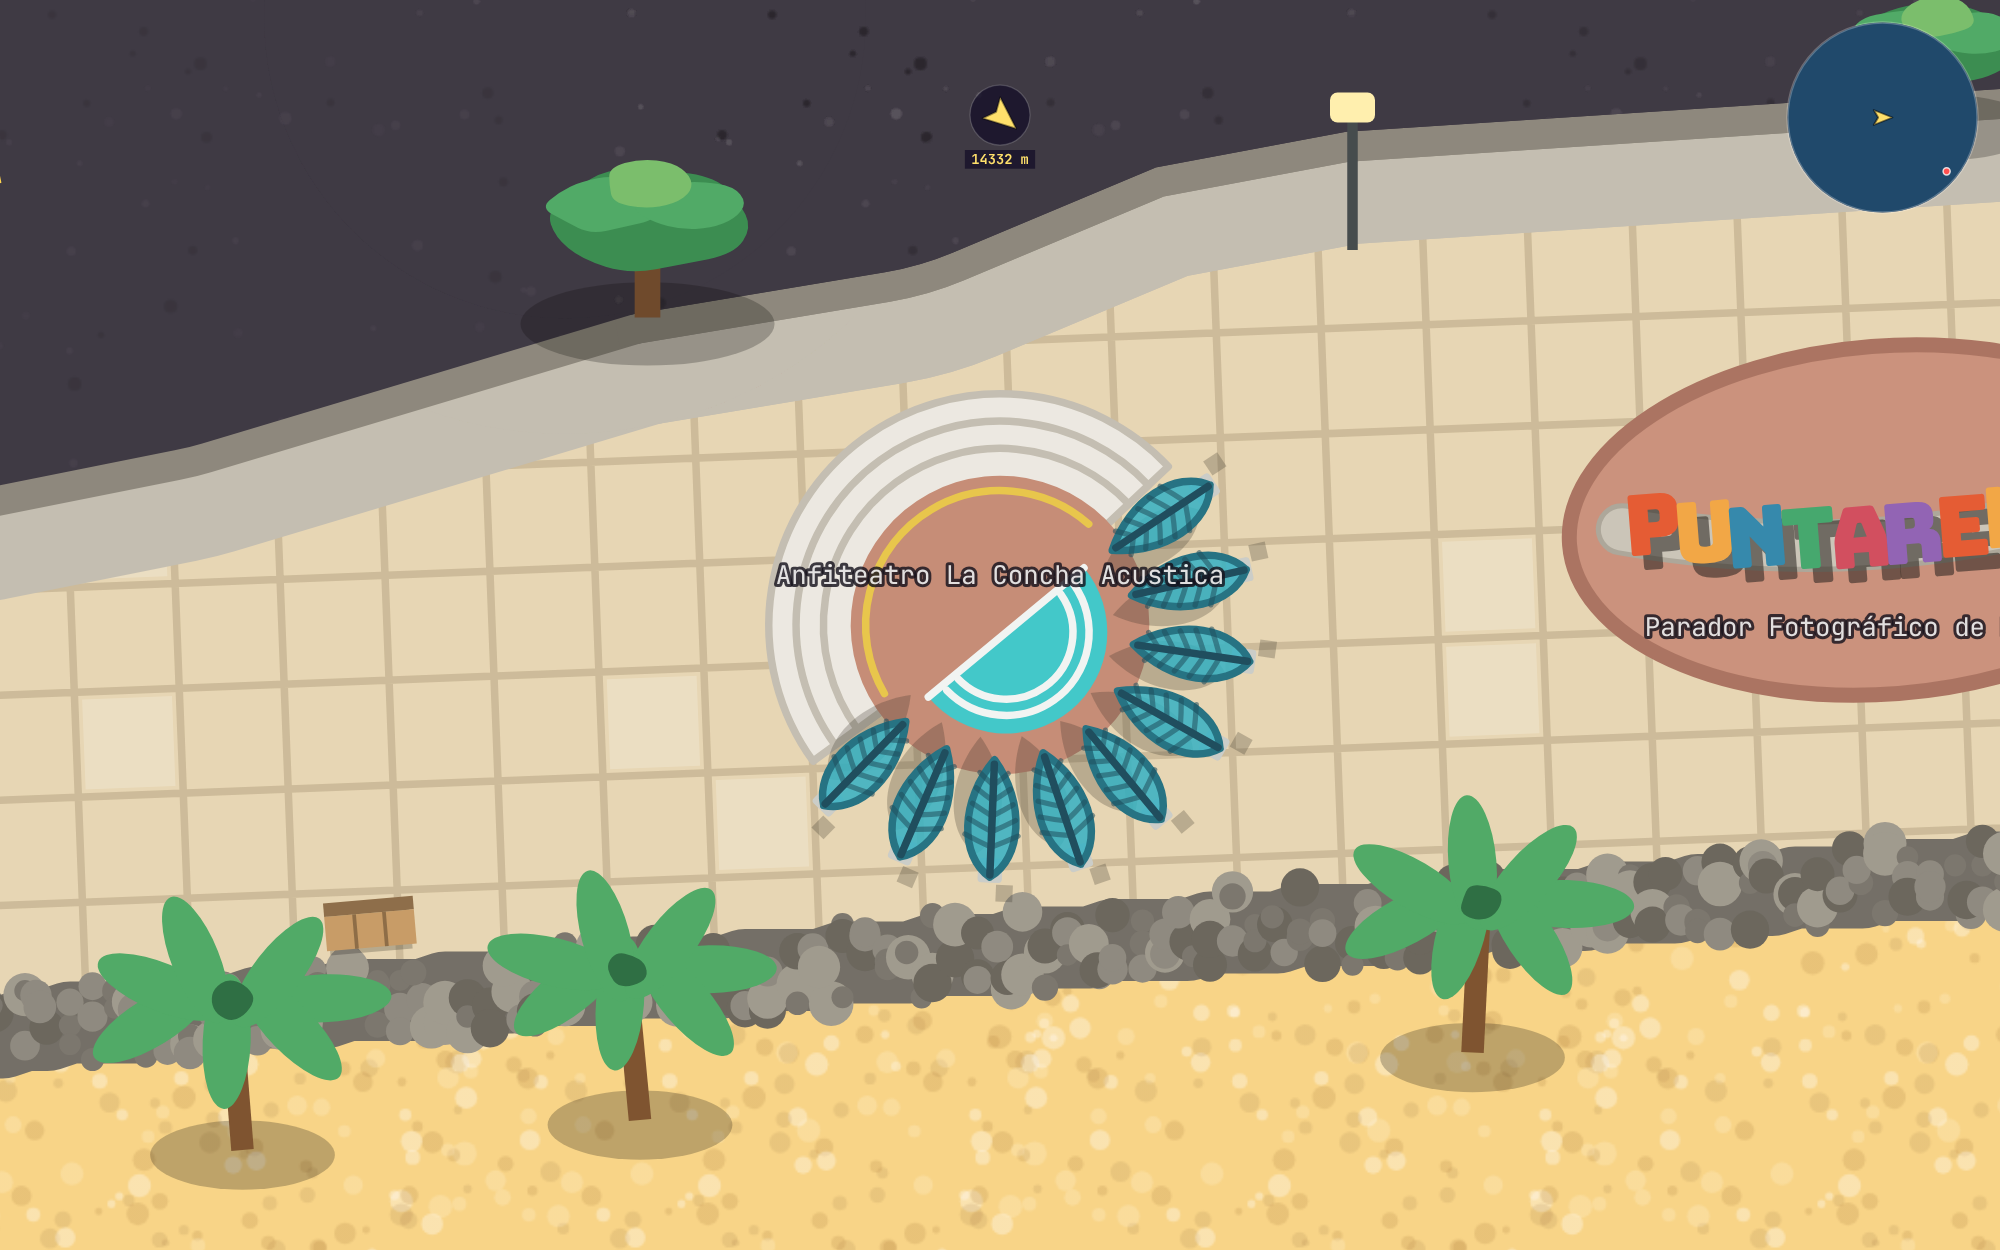
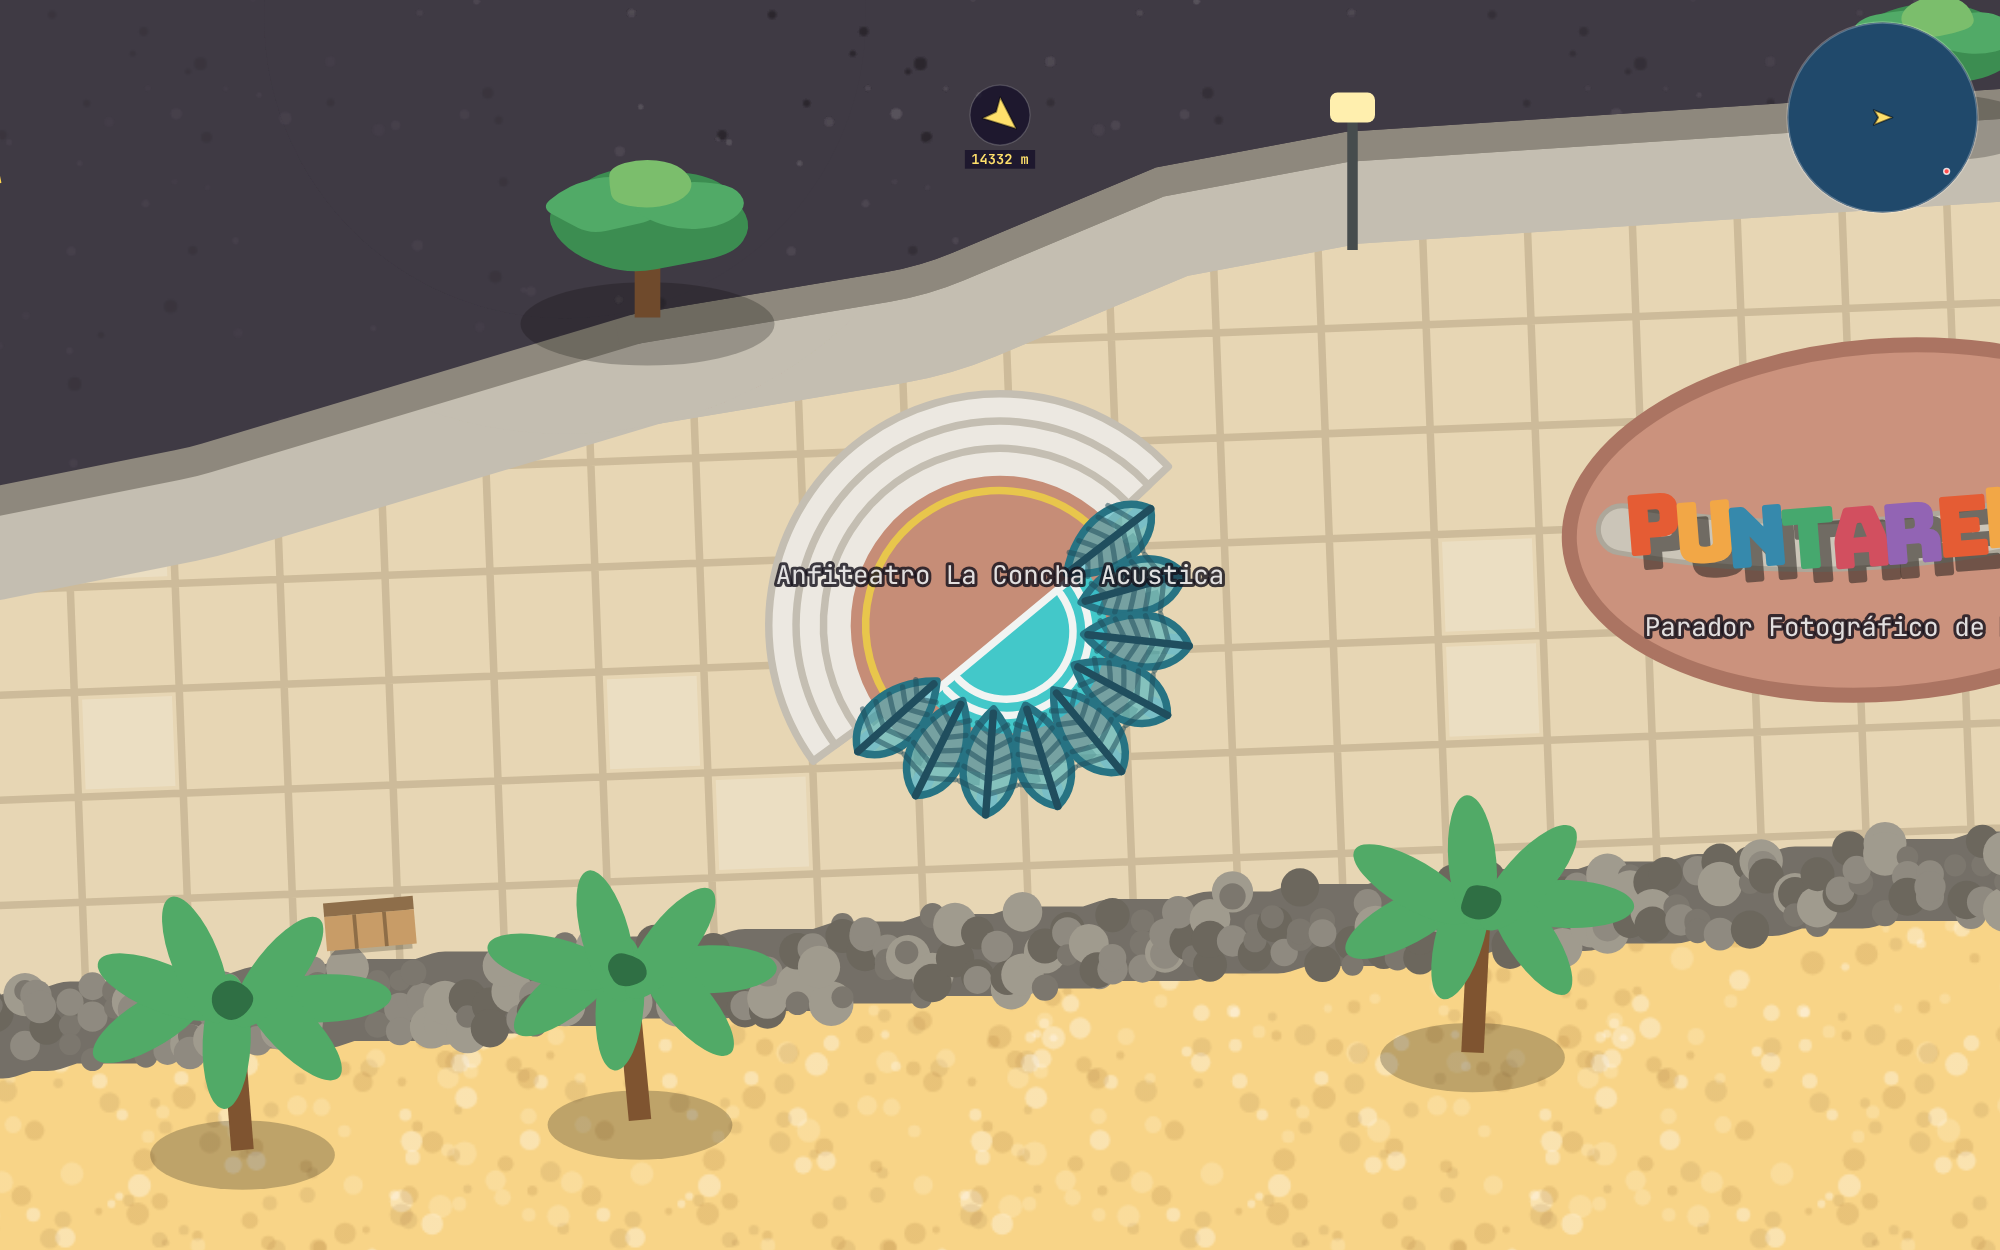
feat(world): las hojas de la Concha en el anillo de las gradas, entrando al escenario, traslúcidas y con su pilar bajo el arranque
Claude-Session: https://claude.ai/code/session_018GSydhWuDAT4g4GG3QKVY6

Changed region(s): [[0.403, 0.3744, 0.651, 0.7176]]

diff --git a/src/render/c2d/punta.js b/src/render/c2d/punta.js
@@ -285,29 +285,32 @@ function paintMonument(mo, ppm) {
     for (const f of [0.82, 0.66]) { ctx.beginPath(); ctx.arc(0, R * 0.04, sr * f, 0.08, Math.PI - 0.08); ctx.stroke(); }
     ctx.beginPath(); ctx.moveTo(-sr, R * 0.04); ctx.lineTo(sr, R * 0.04); ctx.stroke();
     // las nueve hojas en abanico detrás del escenario: cada pilar en el borde de mar y su hoja volcada sobre el escenario
-    const n = C.leaves, arc = C.leafArcDeg * RAD, base = R * 1.02, L = R * C.leafLen, Wd = R * C.leafW;
+    // LAS HOJAS siguen el MISMO ANILLO que las gradas, del lado del mar: cada pilar sobre ese círculo
+    // y su hoja nace justo en él y se vuelca hacia adentro, entrando al escenario y montándose con las vecinas
+    const n = C.leaves, arc = C.leafArcDeg * RAD, ringR = t0 + step * C.tiers * 0.5, L = R * C.leafLen, Wd = R * C.leafW;
     const leaves = [];
     for (let k = 0; k < n; k++) leaves.push(Math.PI / 2 - arc / 2 + arc * k / (n - 1));
-    // de los extremos al centro, para que las del medio queden encima como en la foto
-    leaves.sort((a, b) => Math.abs(b - Math.PI / 2) - Math.abs(a - Math.PI / 2));
+    leaves.sort((a, b) => Math.abs(b - Math.PI / 2) - Math.abs(a - Math.PI / 2));   // las del centro encima
+    const pil = R * 0.055;
+    // los pilares primero, en el MISMO marco que su hoja: bajo el arranque, sobre el nervio
     for (const a of leaves) {
-      ctx.save(); ctx.rotate(a - Math.PI / 2); ctx.translate(0, base);
-      const p = R * 0.07;
-      ctx.fillStyle = K.shadow; ctx.fillRect(-p / 2 + 2, -p / 2 + 3, p, p);
-      ctx.fillStyle = C.pillar; ctx.fillRect(-p / 2, -p / 2, p, p); ctx.strokeStyle = C.pillarEdge; ctx.lineWidth = 1; ctx.strokeRect(-p / 2, -p / 2, p, p);
-      // la hoja nace en su pilar, del lado del mar, y se inclina HACIA el escenario: el tallo afuera, la punta adentro
-      ctx.rotate(Math.PI);
+      ctx.save(); ctx.translate(Math.cos(a) * ringR, Math.sin(a) * ringR); ctx.rotate(a + Math.PI / 2); ctx.translate(0, L * 0.12);
+      ctx.fillStyle = K.shadow; ctx.fillRect(-pil / 2 + 2, -pil / 2 + 3, pil, pil);
+      ctx.fillStyle = C.pillar; ctx.fillRect(-pil / 2, -pil / 2, pil, pil); ctx.strokeStyle = C.pillarEdge; ctx.lineWidth = 1; ctx.strokeRect(-pil / 2, -pil / 2, pil, pil);
+      ctx.restore();
+    }
+    for (const a of leaves) {
+      ctx.save(); ctx.translate(Math.cos(a) * ringR, Math.sin(a) * ringR); ctx.rotate(a + Math.PI / 2);   // +y local: hacia el centro
       const leaf = new Path2D();
-      leaf.moveTo(0, -L * 0.06);
-      leaf.bezierCurveTo(Wd, L * 0.12, Wd * 1.05, L * 0.62, 0, L);
-      leaf.bezierCurveTo(-Wd * 1.05, L * 0.62, -Wd, L * 0.12, 0, -L * 0.06);
-      ctx.save(); ctx.translate(2, 3); ctx.fillStyle = K.shadow; ctx.fill(leaf); ctx.restore();
+      leaf.moveTo(0, 0);
+      leaf.bezierCurveTo(Wd, L * 0.16, Wd * 1.05, L * 0.64, 0, L);
+      leaf.bezierCurveTo(-Wd * 1.05, L * 0.64, -Wd, L * 0.16, 0, 0);
       ctx.fillStyle = C.leaf; ctx.fill(leaf);
       ctx.strokeStyle = C.leafEdge; ctx.lineWidth = Math.max(1, 0.15 * ppm); ctx.stroke(leaf);
       ctx.strokeStyle = C.vein; ctx.lineWidth = Math.max(0.7, 0.08 * ppm); ctx.beginPath();
-      for (let v = 1; v <= 5; v++) { const y = L * (0.12 + v * 0.14), sp = Wd * (0.95 - v * 0.1); ctx.moveTo(0, y - L * 0.05); ctx.quadraticCurveTo(sp * 0.5, y, sp, y + L * 0.06); ctx.moveTo(0, y - L * 0.05); ctx.quadraticCurveTo(-sp * 0.5, y, -sp, y + L * 0.06); }
+      for (let v = 1; v <= 5; v++) { const y = L * (0.1 + v * 0.14), sp = Wd * (0.95 - v * 0.1); ctx.moveTo(0, y - L * 0.05); ctx.quadraticCurveTo(sp * 0.5, y, sp, y + L * 0.06); ctx.moveTo(0, y - L * 0.05); ctx.quadraticCurveTo(-sp * 0.5, y, -sp, y + L * 0.06); }
       ctx.stroke();
-      ctx.strokeStyle = C.rib; ctx.lineWidth = Math.max(1, 0.22 * ppm); ctx.beginPath(); ctx.moveTo(0, -L * 0.04); ctx.lineTo(0, L * 0.96); ctx.stroke();
+      ctx.strokeStyle = C.rib; ctx.lineWidth = Math.max(1, 0.22 * ppm); ctx.beginPath(); ctx.moveTo(0, 0); ctx.lineTo(0, L * 0.96); ctx.stroke();
       ctx.restore();
     }
   } else if (mo.kind === "letters") {
